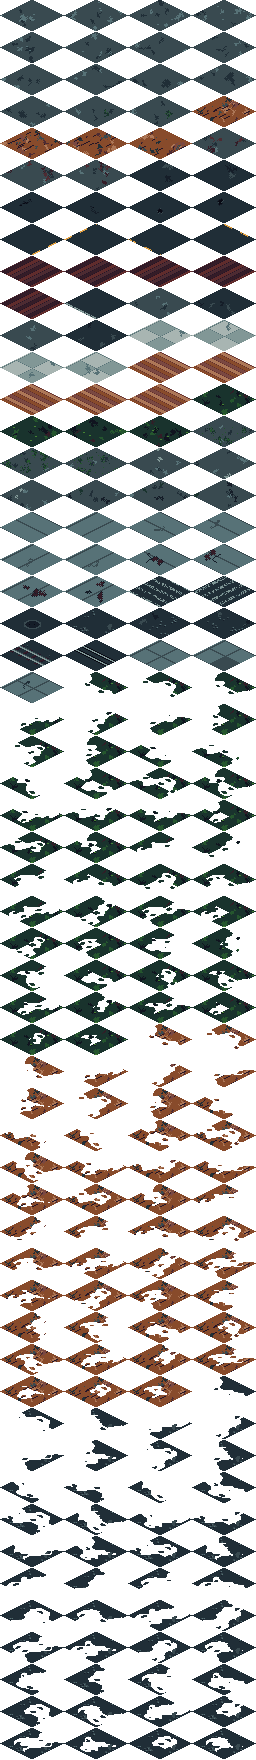
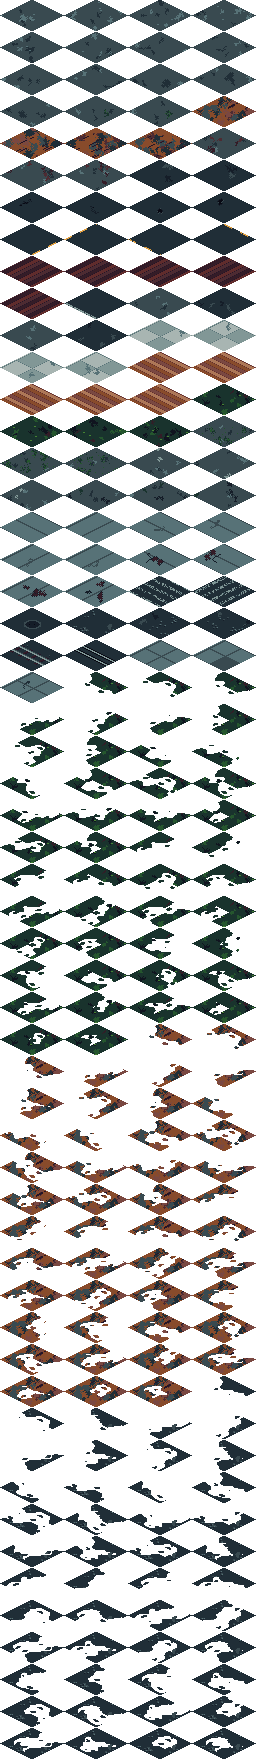
v0.6.105: the dirt reads as earth, not terracotta
"can you make all of the dirt on the world look more brown, its like orangeish",
then the target that actually settled it: "make it like the same brown colour as
the trees or close to that".

THE HUE WAS NEVER THE PROBLEM. It has been chased three times across three
sessions - wine, then red, then orange - each time by eye. Measured, the field
sat at hue 19 deg, which is a correct earth colour, and 45% SATURATION, which is
terracotta. Earth reads brown at the same hue around 28%.

Two things were making it bright:

  - The pale tan. ad7757 (173,119,87) was the highlight, far lighter than
    anything on a tree, and those flecks are what the eye picks out of a whole
    field. The trees the user compared it to are the SAME base 884b2b - shaded
    DOWN with a dark, never lifted with a tan. The dirt is shaded like a trunk
    now: nothing in it is lighter than its own base.
  - The mottle had no area. Raising the speckle probabilities moved the measured
    saturation by exactly zero points, because speckle() is capped at three
    patches of 6-16 px whatever you pass it. The desaturation had to come from
    _tonal's large solid blotches, which is also what earth honestly looks like.

Result: hue held at 17 deg, saturation 45% -> 28%, lightness 34% -> 30%. The
grey mud does the neutralising, because every browner Apollo value also pulls
the hue toward red - the trap the previous two attempts fell into, and why a
[…]

diff --git a/tools/gen_art.py b/tools/gen_art.py
@@ -336,10 +336,45 @@ def make_floor_tile(kind: str, variant: int) -> Canvas:
         # 884b2b and the highlight to ad7757. 4d2b32 is kept ONLY as the
         # shadow: it is -7 (blue over green) and would pull the whole surface
         # back toward wine if it were the base.
-        region = _floor_base(c, rng, C("884b2b"), C("4d2b32"), C("ad7757"),
-                             0.16, 0.10)
-        speckle(c, rng, region, [C("202e37"), C("394a50")], [0.17, 0.07])
-        _tonal(c, rng, region, [C("7a4841"), C("ad7757")], 3, 16, 34)
+        # BROWN IS A SATURATION PROBLEM, NOT A HUE ONE (user, 2026-08-08: "can
+        # you make all of the dirt on the world look more brown, its like
+        # orangeish"). Measured before touching it: the field came out hue 19.5
+        # deg at 45% SATURATION, which is terracotta. Earth reads brown at the
+        # same hue around 30% or below - so the fix is to desaturate, not to
+        # move the hue again.
+        #
+        # THAT MATTERS BECAUSE THE HUE HAS BEEN CHASED TWICE ALREADY and each
+        # move traded one complaint for the other: 341c27/241527 read as wine
+        # ("more red than brown"), so it went to 7a4841, still "a bit red", so
+        # it went to 884b2b - which has the best hue in the palette but is a
+        # 52% saturated orange, and that is what has been on screen since.
+        # Apollo has no muted mid-brown to swap in; the desaturation has to
+        # come from MIXING. So the base keeps its hue and the grey mud does
+        # the work, with the bright tan pulled back to an accent.
+        # AND THE DESATURATION HAS TO COME FROM `_tonal`, NOT `speckle`. The
+        # first attempt at this raised the speckle probabilities and the
+        # measured saturation did not move one point — `speckle` is capped at
+        # three patches of 6-16 px, under 5% of a tile whatever you pass it, so
+        # the base colour is ~85% of the field and nothing else can shift the
+        # average. `_tonal` paints solid blotches of real area, which is also
+        # what earth honestly looks like: mottled, not evenly dyed.
+        # THE BRIGHT TAN WAS THE ORANGE. Measured the trees, because that is
+        # the target the user gave ("make it like the same brown colour as the
+        # trees or close to that") — and their trunks are 884b2b, which is
+        # already the dirt's base. Same colour, and yet one reads brown and the
+        # other orange: the difference is that a trunk is 884b2b shaded DOWN
+        # with 341c27, while the dirt was 884b2b lifted UP with ad7757
+        # (173,119,87), a tan far lighter than anything on a tree. Those pale
+        # flecks are what the eye picks out of a whole field of it.
+        #
+        # So the dirt is shaded like a trunk now: nothing lighter than the
+        # base anywhere in it, 341c27 for the dark, and the grey mud for the
+        # mottle. Brown IS dark orange — the fix is to stop lifting it.
+        region = _floor_base(c, rng, C("884b2b"), C("4d2b32"), C("7a4841"),
+                             0.20, 0.14)
+        speckle(c, rng, region, [C("202e37"), C("394a50")], [0.25, 0.12])
+        _tonal(c, rng, region, [C("7a4841"), C("4d2b32")], 5, 28, 50)
+        _tonal(c, rng, region, [C("394a50"), C("202e37")], 8, 30, 56)
         for i in range(rng.randint(10, 14)):
             x = 6 + rng.randrange(52)
             y = 4 + rng.randrange(24)

diff --git a/CLAUDE.md b/CLAUDE.md
@@ -35,7 +35,7 @@ This file carries everything a fresh session needs that isn't in those two.
 
 <!-- CHECKED: --checkdocs parses the version out of the next line. Keep the
 	 form "vX.Y.Z shipped" or the check will fail loudly. -->
-**v0.6.104 shipped, 2026-08-08.** Milestone 1 (a walkable world) is DONE.
+**v0.6.105 shipped, 2026-08-08.** Milestone 1 (a walkable world) is DONE.
 Milestone 2 — guns, tunnels, the story opening — is designed and waiting
 on the user's explicit "go".
 
@@ -250,6 +250,22 @@ Deliver the intent with additive glow sprites, the way lamps already do.
   `_pick_variant_varied` takes a second draw on a repeat, so a swap there
   re-rolls the whole fixed district. Take that roll and throw it away, then
   pick from `_local_variant` off a district-seeded local rng.
+- **`speckle()` CANNOT CHANGE A SURFACE'S COLOUR — it is capped, and the cap
+  is not in its signature.** Whatever probabilities you pass, it paints at most
+  three patches of 6-16 px: under 5% of a 64x32 tile. A floor's BASE colour is
+  ~85% of what you see, and only `_floor_base`'s base or `_tonal`'s large solid
+  blotches can move the average. Raising speckle probabilities to retint the
+  dirt moved its measured saturation by ZERO points (v0.6.105).
+- **JUDGE A GROUND COLOUR BY MEASUREMENT, AND MEASURE SATURATION, NOT HUE.**
+  The dirt's hue was chased three times across three sessions — wine, then red,
+  then orange — because each session eyeballed it and moved the hue. Measured,
+  the fault was never the hue: it sat at a correct earth 19 deg the whole time
+  at **45% saturation**, which is terracotta. Earth reads brown at the same hue
+  near 28%. `scratchpad`-style one-off scripts that print mean RGB + hue + sat
+  + lightness per tile settle this in seconds; do that before touching a value.
+  **And the brightest colour in the mix is what the eye picks out of a field**
+  — the pale tan `ad7757` flecks were most of the orange, and the trees the
+  user compared it to are the SAME base `884b2b` shaded DOWN rather than up.
 - **A colour grade must not change brightness.** Multiplying by a tint
   colour whose own luminance is 0.38 dimmed every shadowed pixel to a
   third. Normalise tints to luminance 1 so they shift hue only.

diff --git a/CHANGELOG.md b/CHANGELOG.md
@@ -3,6 +3,40 @@
 All notable changes to SPOILS are documented here. Versions follow a simple
 `0.minor.patch` scheme while the game is pre-release.
 
+## [0.6.105] - 2026-08-08 - the dirt reads as earth, not terracotta
+
+### Changed - browner ground, measured rather than eyeballed
+*"can you make all of the dirt on the world look more brown, its like
+orangeish"*, then the target that actually settled it: *"make it like the same
+brown colour as the trees or close to that"*.
+
+**The hue was never the problem.** It has been chased three times across three
+sessions - wine, then red, then orange - each time by eye. Measured, the field
+sat at hue 19 deg, which is a correct earth colour, and **45% saturation**,
+which is terracotta. Earth reads brown at the same hue around 28%.
+
+Two things were making it bright:
+
+- **The pale tan.** `ad7757` (173,119,87) was the highlight, far lighter than
+  anything on a tree, and those flecks are what the eye picks out of a whole
+  field. The trees the user compared it to are the SAME base `884b2b` - shaded
+  DOWN with a dark, never lifted with a tan. The dirt is shaded like a trunk
+  now: nothing in it is lighter than its own base.
+- **The mottle had no area.** Raising the speckle probabilities moved the
+  measured saturation by exactly zero points, because `speckle()` is capped at
+  three patches of 6-16 px whatever you pass it. The desaturation had to come
+  from `_tonal`'s large solid blotches, which is also what earth honestly looks
+  like - mottled, not evenly dyed.
+
+**Result: hue held at 17 deg, saturation 45% -> 28%, lightness 34% -> 30%.**
+The grey mud does the neutralising, because every browner Apollo value also
+pulls the hue toward red - which is the trap the previous two attempts fell
+into, and why a muted-base variant was built, measured at hue 6 deg, and
+rejected before it ever reached a screenshot.
+
+The terrain fringes composite from the real tiles, so they follow with no
+separate change. Layout untouched: DOORS 16, LAMPS 53/15, VEHICLES 30.
+
 ## [0.6.104] - 2026-08-08 - the smoker, and the bench he sits on
 
 ### Changed - he is built from the player's own character sheet now

diff --git a/HANDOFF.md b/HANDOFF.md
@@ -41,6 +41,49 @@ chat that dies mid-session still leaves a record.
 
 ---
 
+## 2026-08-08 - v0.6.105: the dirt, settled by measurement
+
+**Shipped: v0.6.105.** `SEC` `DOCS` `CLAIMS` `SMOKE` pass, layout identical,
+user signed off on the before/after before the push.
+
+*"can you make all of the dirt on the world look more brown, its like
+orangeish"* / *"make it like the same brown colour as the trees or close to
+that"*.
+
+### What was actually wrong
+
+Hue 19 deg (correct earth) at **45% saturation** (terracotta). Three previous
+sessions moved the HUE by eye and each traded one complaint for the other. Two
+real causes: the `ad7757` pale-tan highlight, which is brighter than anything on
+a tree and is what the eye picks out of a field; and `speckle()` being capped at
+~5% coverage, so every attempt to retint via speckle probabilities did nothing
+measurable. Fixed by shading DOWN like a tree trunk (same base `884b2b`, no
+lift) and moving the mottle to `_tonal`. **45% -> 28% saturation, hue held.**
+
+### Learned - both now in CLAUDE.md
+
+- **`speckle()` cannot change a surface's colour.** Capped at three 6-16 px
+  patches regardless of the probabilities passed. Only the base or `_tonal`
+  moves an average.
+- **Measure saturation, not hue, when a colour "reads wrong".** And remember
+  the BRIGHTEST value in a mix dominates perception of a large field.
+
+### Learned - process
+
+**A user's comparison target is worth more than my own number.** I set out to
+hit "saturation under 35%" from theory; the answer came from measuring the
+TREES they pointed at, which showed the base was already identical and the
+fault was elsewhere entirely. Ask what it should look like *next to*.
+
+### Picked up at
+
+Backlog: B0-NEW geometry batch, B0 parking spurs, B0b broken cars, B1 sprint,
+B2 warden, B3 scrapyard, B6 cosy safehouse, B8 warden placement, B10 door
+creak, B13 prop outlines (sample -> sign-off -> fleet), C3 non-rectangular
+buildings.
+
+---
+
 ## 2026-08-08 - v0.6.104: the smoker and his bench
 
 **Shipped: v0.6.104.** `SEC` `DOCS` `CLAIMS` `SMOKE` pass, propclip 0/165,

diff --git a/TASKS.md b/TASKS.md
@@ -5,7 +5,7 @@ one. **Read `CLAUDE.md` first** (project rules, systems map, verification
 workflow), then this file for what to actually build. `CHANGELOG.md`
 records what already shipped.
 
-**Current version: v0.6.104.** The release history was renumbered evenly on
+**Current version: v0.6.105.** The release history was renumbered evenly on
 2026-08-02 — read the versioning note in CLAUDE.md before quoting any old
 version number, because they were all remapped.
 
